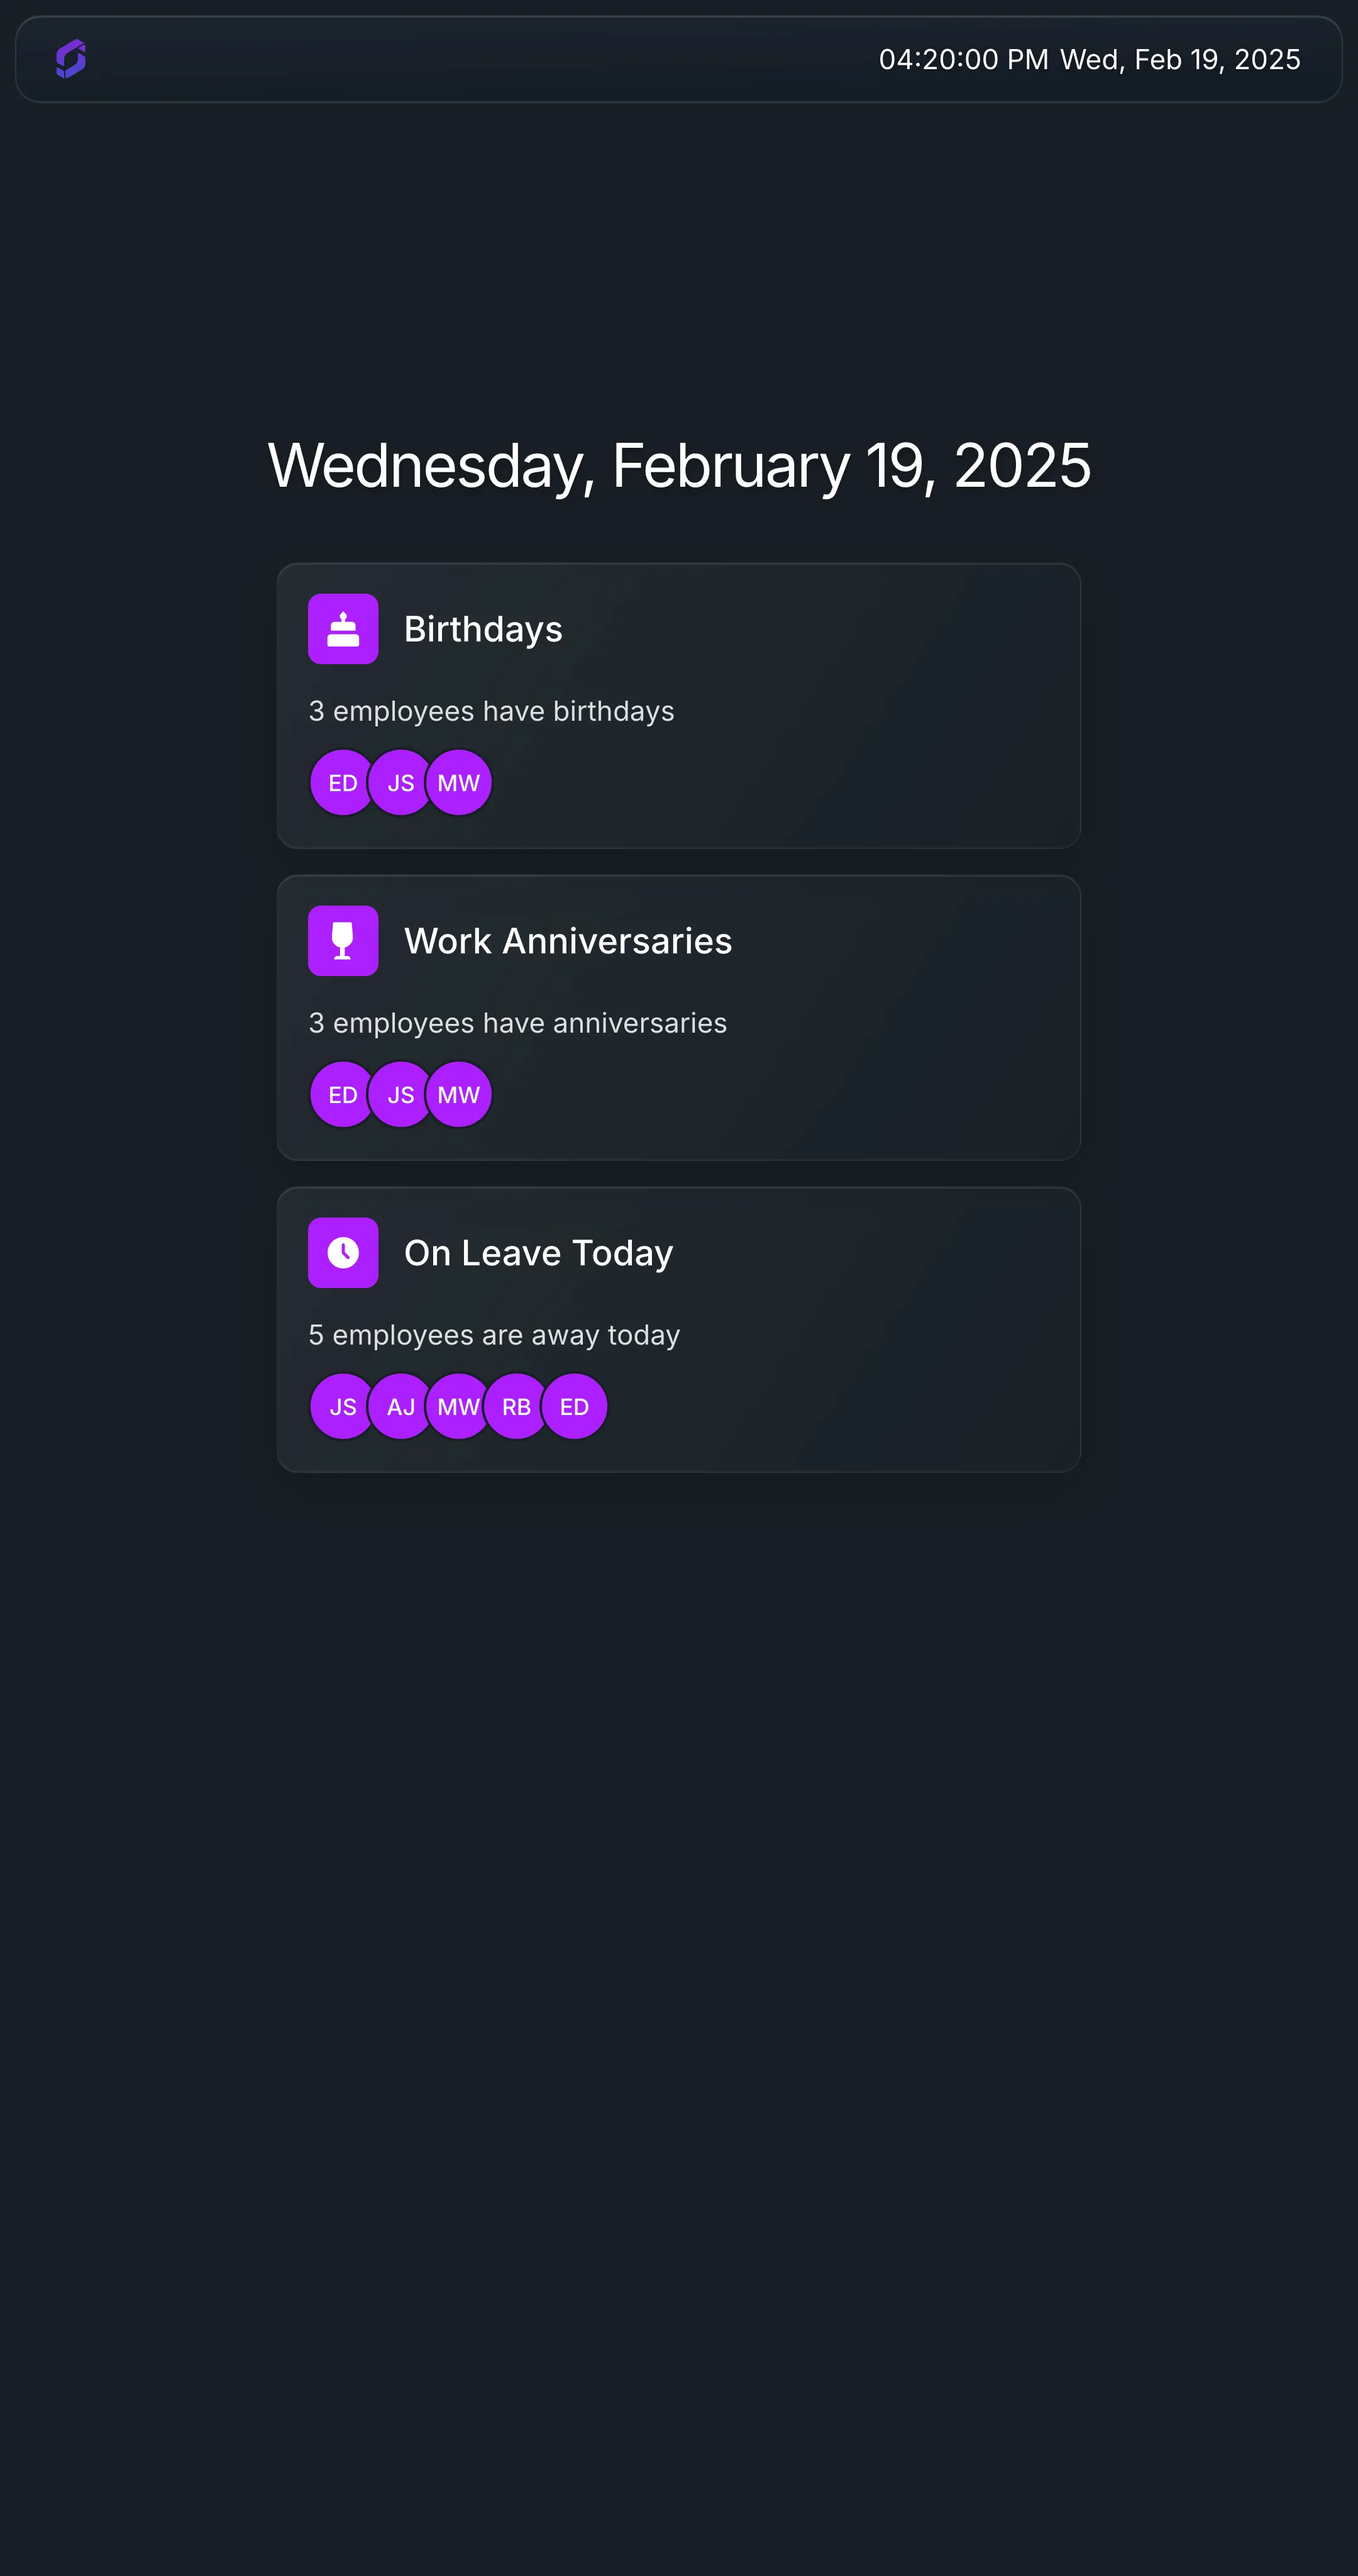
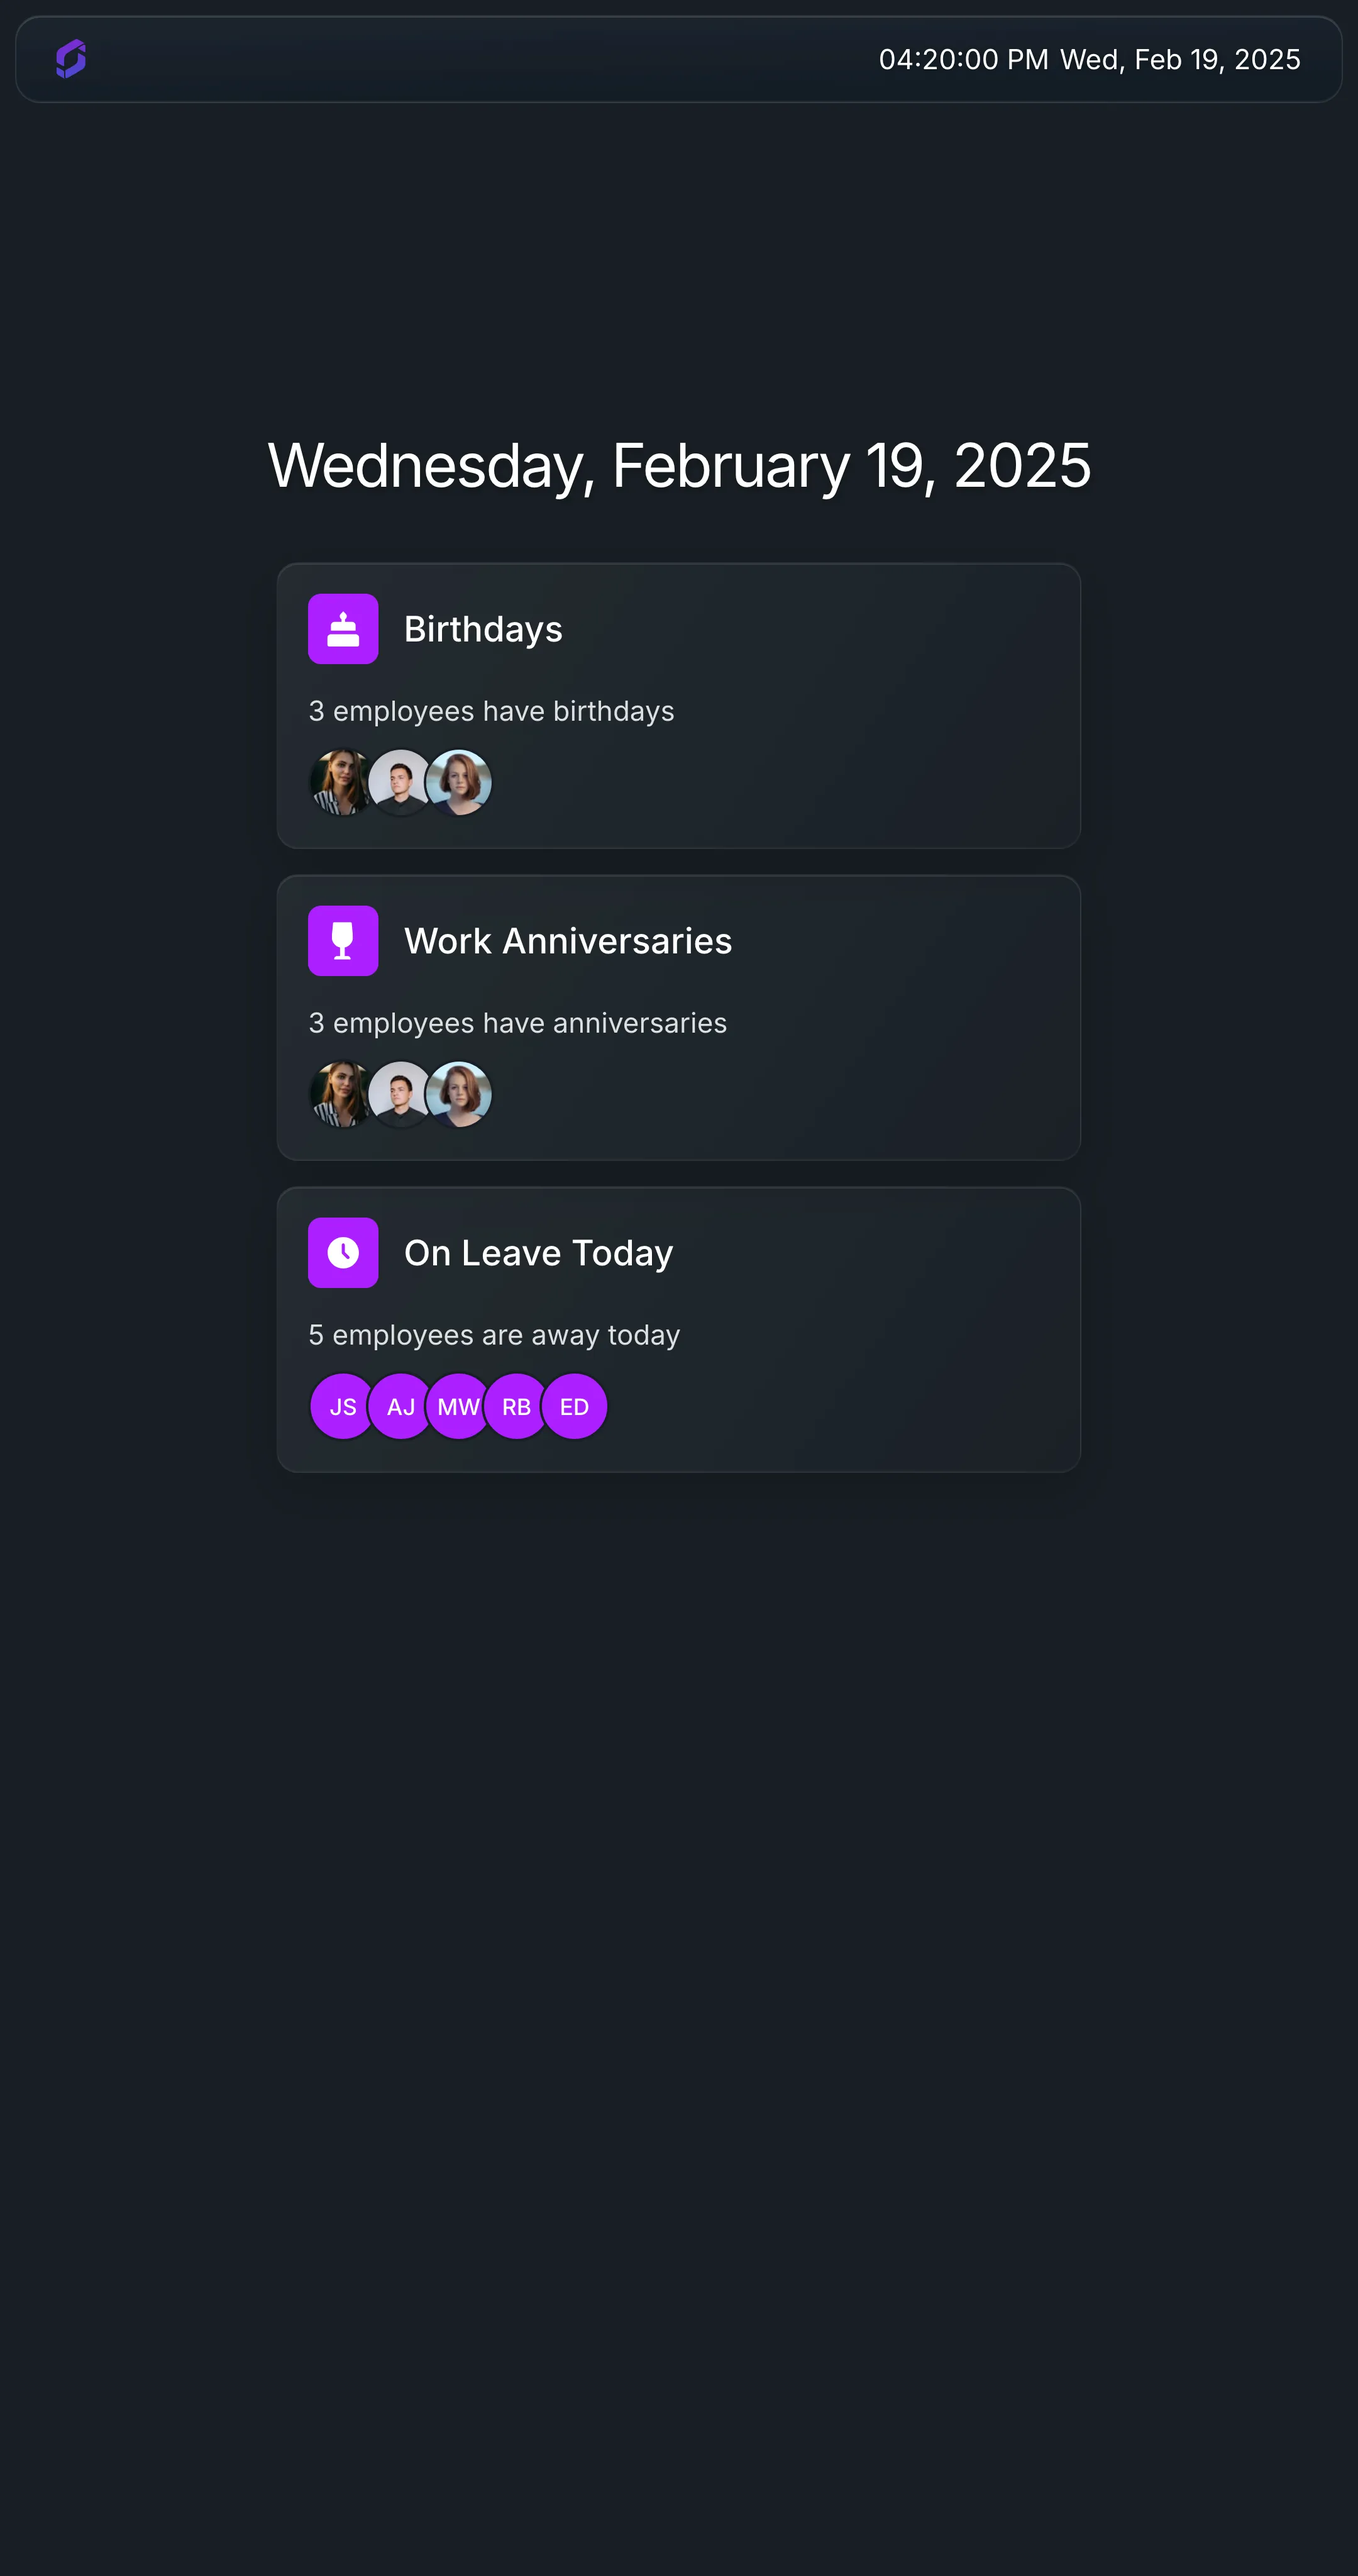
test(bamboo-hr-app): use data URL photos in screenshot tests
- Add e2e/photos.ts with 5 base64-encoded headshot images from Unsplash
- Replace default BambooHR placeholder URLs with data URLs in mock data
- Update screenshots for all resolutions

Changed region(s): [[0.2171, 0.2812, 0.3722, 0.3438], [0.2171, 0.4062, 0.3722, 0.4375]]

diff --git a/edge-apps/bamboo-hr-app/e2e/photos.ts b/edge-apps/bamboo-hr-app/e2e/photos.ts
@@ -1,0 +1,9 @@
[1 lines of base64/hex data omitted]
+
[1 lines of base64/hex data omitted]
+
[1 lines of base64/hex data omitted]
+
[1 lines of base64/hex data omitted]
+
[1 lines of base64/hex data omitted]

diff --git a/edge-apps/bamboo-hr-app/e2e/screenshots.spec.ts b/edge-apps/bamboo-hr-app/e2e/screenshots.spec.ts
@@ -8,6 +8,7 @@ import {
   setupScreenlyJsMock,
 } from '@screenly/edge-apps/test/screenshots'
 import path from 'path'
+import { PHOTO_1, PHOTO_2, PHOTO_3, PHOTO_4, PHOTO_5 } from './photos'
 
 const { screenlyJsContent } = createMockScreenlyForScreenshots(
   { coordinates: [37.3861, -122.0839], location: 'Silicon Valley, USA' },
@@ -30,8 +31,7 @@ const EMPLOYEES_RESPONSE = {
       lastName: 'Smith',
       dateOfBirth: '1990-02-19',
       hireDate: '2018-02-19',
-      employeePhoto:
-        'https://resources.bamboohr.com/images/photo_person_160x160.png',
+      employeePhoto: PHOTO_1,
     },
     {
       id: 2,
@@ -40,8 +40,7 @@ const EMPLOYEES_RESPONSE = {
       lastName: 'Johnson',
       dateOfBirth: '1985-02-20',
       hireDate: '2015-02-20',
-      employeePhoto:
-        'https://resources.bamboohr.com/images/photo_person_160x160.png',
+      employeePhoto: PHOTO_2,
     },
     {
       id: 3,
@@ -50,8 +49,7 @@ const EMPLOYEES_RESPONSE = {
       lastName: 'Williams',
       dateOfBirth: '1992-02-19',
       hireDate: '2020-02-19',
-      employeePhoto:
-        'https://resources.bamboohr.com/images/photo_person_160x160.png',
+      employeePhoto: PHOTO_3,
     },
     {
       id: 4,
@@ -60,8 +58,7 @@ const EMPLOYEES_RESPONSE = {
       lastName: 'Brown',
       dateOfBirth: '1988-02-20',
       hireDate: '2019-02-20',
-      employeePhoto:
-        'https://resources.bamboohr.com/images/photo_person_160x160.png',
+      employeePhoto: PHOTO_4,
     },
     {
       id: 5,
@@ -70,8 +67,7 @@ const EMPLOYEES_RESPONSE = {
       lastName: 'Davis',
       dateOfBirth: '1995-02-19',
       hireDate: '2022-02-19',
-      employeePhoto:
-        'https://resources.bamboohr.com/images/photo_person_160x160.png',
+      employeePhoto: PHOTO_5,
     },
   ],
 }
